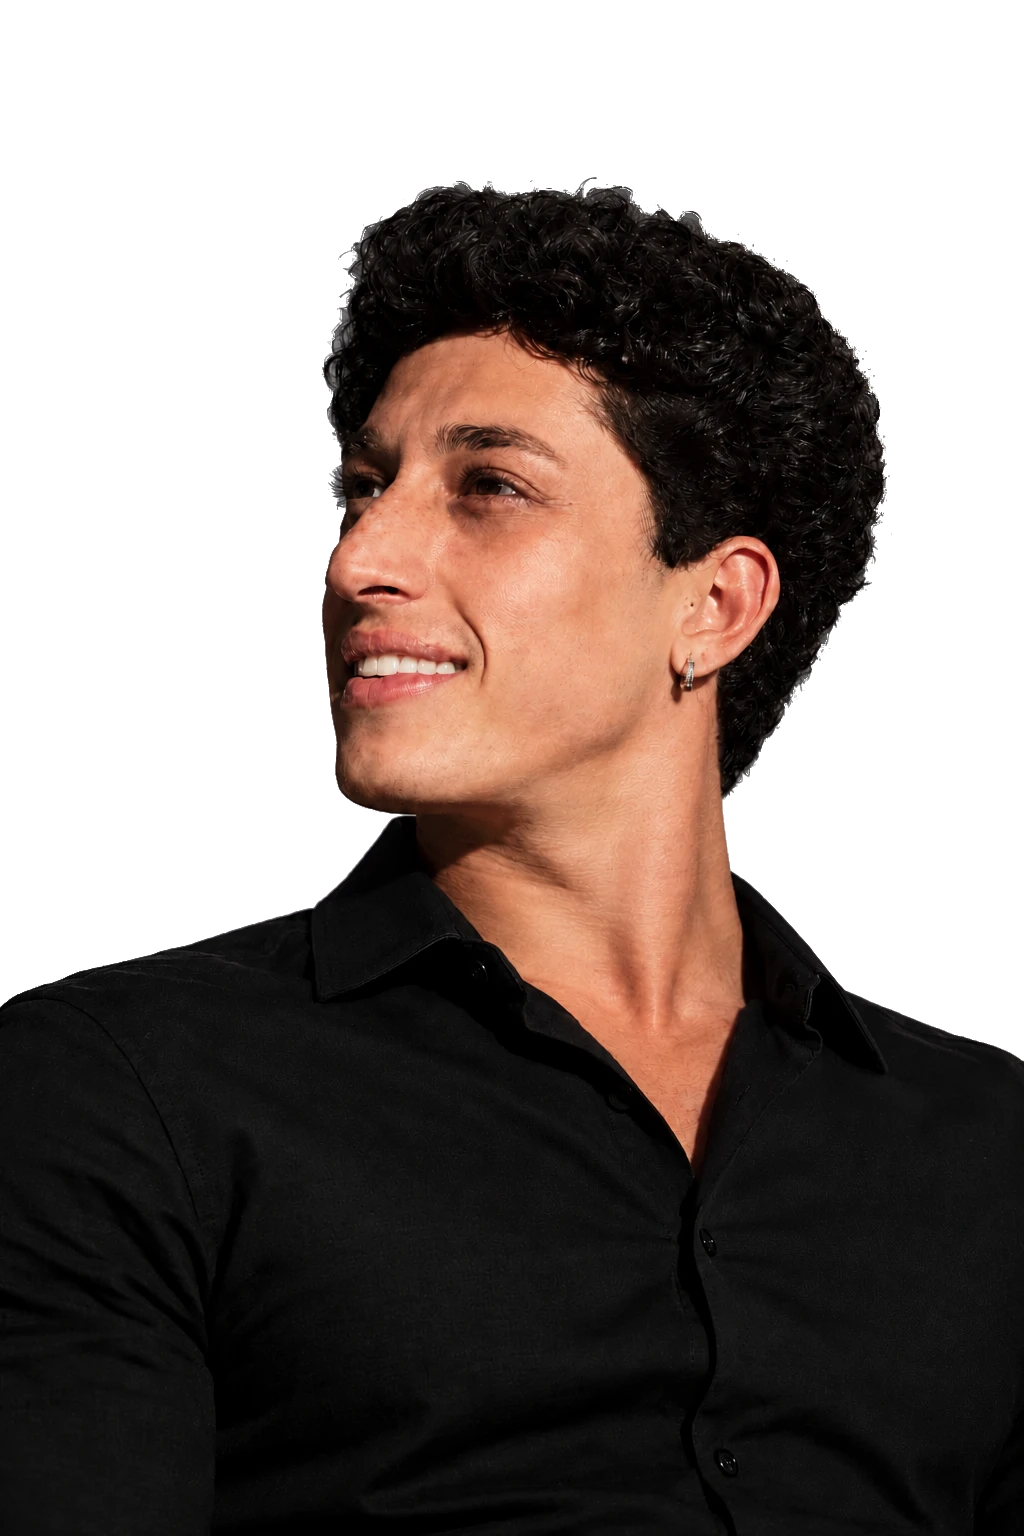
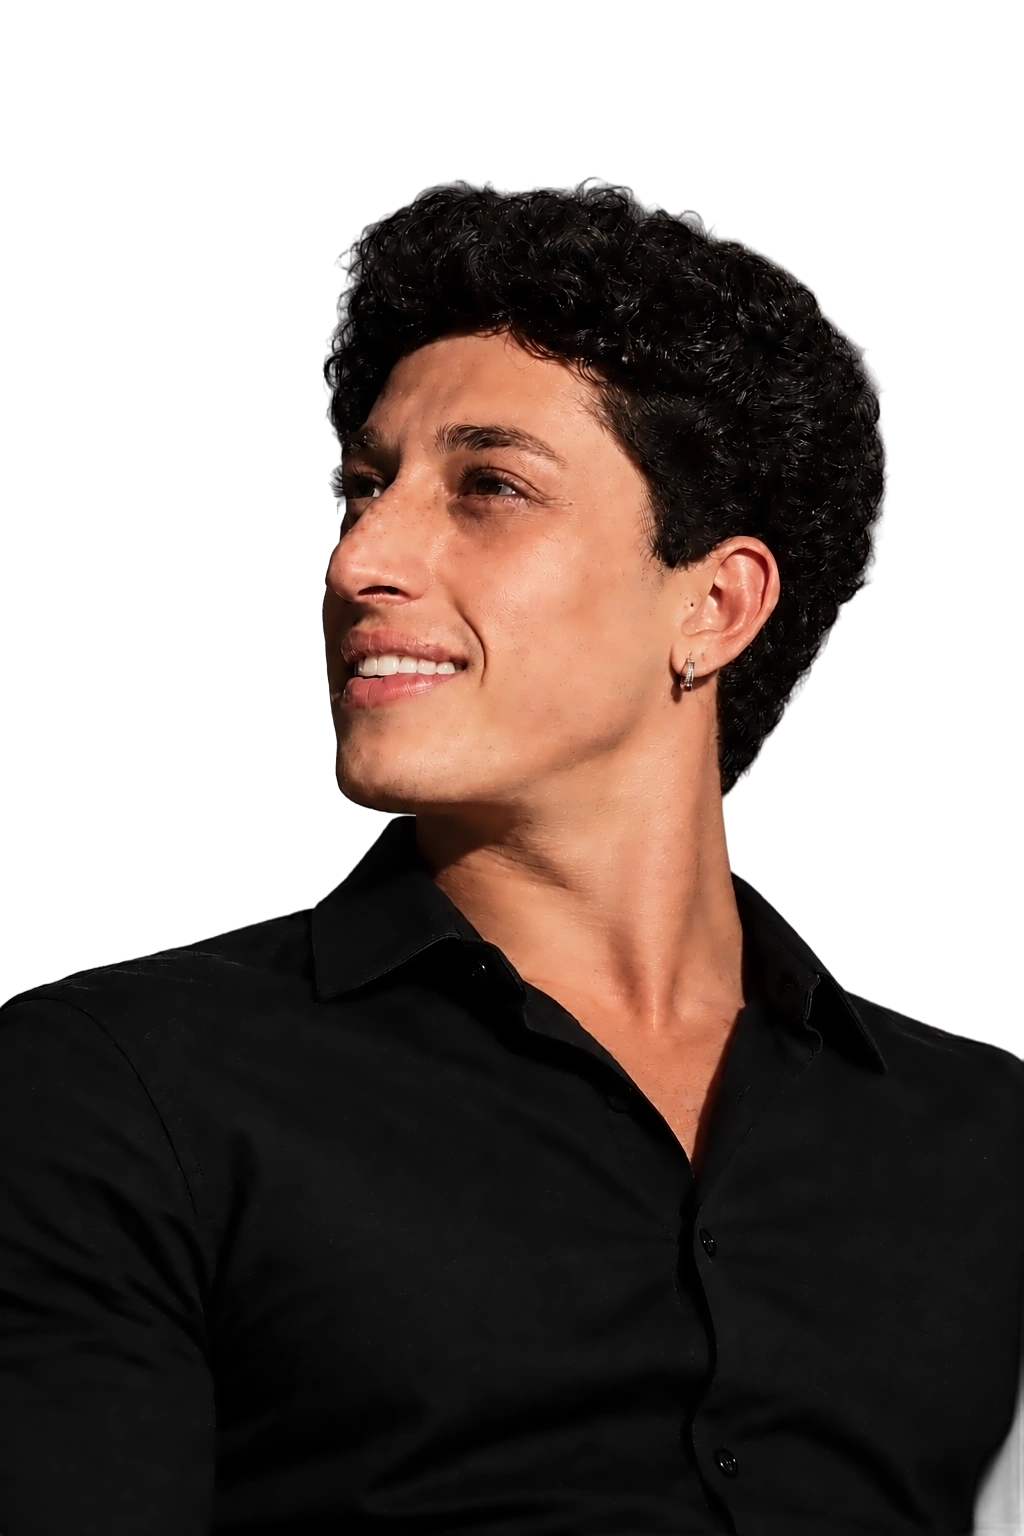
Foto com mais qualidade e parallax lento na foto
- Recorte novo (rembg): contorno do cabelo suave, sem o serrilhado e sem resto de cinza do fundo
- Pele mais lisa sem a textura riscada (filtro guiado só na luminância), mesma cor
- Parallax lento só na foto, só no computador: acompanha o mouse 4,5% do caminho por quadro, até 10 px (js/parallax.js)

diff --git a/js/parallax.js b/js/parallax.js
@@ -1,0 +1,31 @@
+/* Parallax da foto (só no computador, com mouse): a foto acompanha o mouse devagar,
+   poucos pixels, dando profundidade sobre o fundo. No celular e com "reduzir movimento",
+   a foto fica parada. Velocidade: a foto anda 4,5% do caminho que falta a cada quadro. */
+(function () {
+  var hero = document.querySelector('.hero');
+  var person = document.querySelector('.person');
+  if (!hero || !person) return;
+  if (matchMedia('(prefers-reduced-motion: reduce)').matches || !matchMedia('(pointer: fine)').matches) return;
+
+  var SPEED = 0.045;      // menor = mais lento
+  var RANGE_X = 10;       // deslocamento máximo, em px
+  var RANGE_Y = 6;
+  var tx = 0, ty = 0, x = 0, y = 0, raf = 0;
+
+  function tick() {
+    x += (tx - x) * SPEED;
+    y += (ty - y) * SPEED;
+    person.style.setProperty('--px', (x * RANGE_X).toFixed(2) + 'px');
+    person.style.setProperty('--py', (y * RANGE_Y).toFixed(2) + 'px');
+    raf = Math.abs(tx - x) + Math.abs(ty - y) > 0.001 ? requestAnimationFrame(tick) : 0;
+  }
+  function go() { if (!raf) raf = requestAnimationFrame(tick); }
+
+  hero.addEventListener('pointermove', function (e) {
+    var r = hero.getBoundingClientRect();
+    tx = (e.clientX - r.left) / r.width * 2 - 1;
+    ty = (e.clientY - r.top) / r.height * 2 - 1;
+    go();
+  });
+  hero.addEventListener('pointerleave', function () { tx = ty = 0; go(); });
+})();

diff --git a/css/style.css b/css/style.css
@@ -203,3 +203,9 @@ body { min-height: 100vh; min-height: 100svh; display: grid; place-items: center
 @media (prefers-reduced-motion: reduce) {
   * { transition: none !important; }
 }
+
+/* ---------- Parallax da foto (js/parallax.js) ----------
+   A foto acompanha o mouse devagar, poucos pixels (só computador). "translate" separado do
+   "transform" para não brigar com nada que já mexa na foto. */
+.person { translate: var(--px, 0px) var(--py, 0px); will-change: translate; }
+@media (max-width: 860px) { .person { translate: none; will-change: auto; } }

diff --git a/index.html b/index.html
@@ -82,5 +82,6 @@
   </nav>
 </main>
 
+<script src="js/parallax.js" defer></script>
 </body>
 </html>
